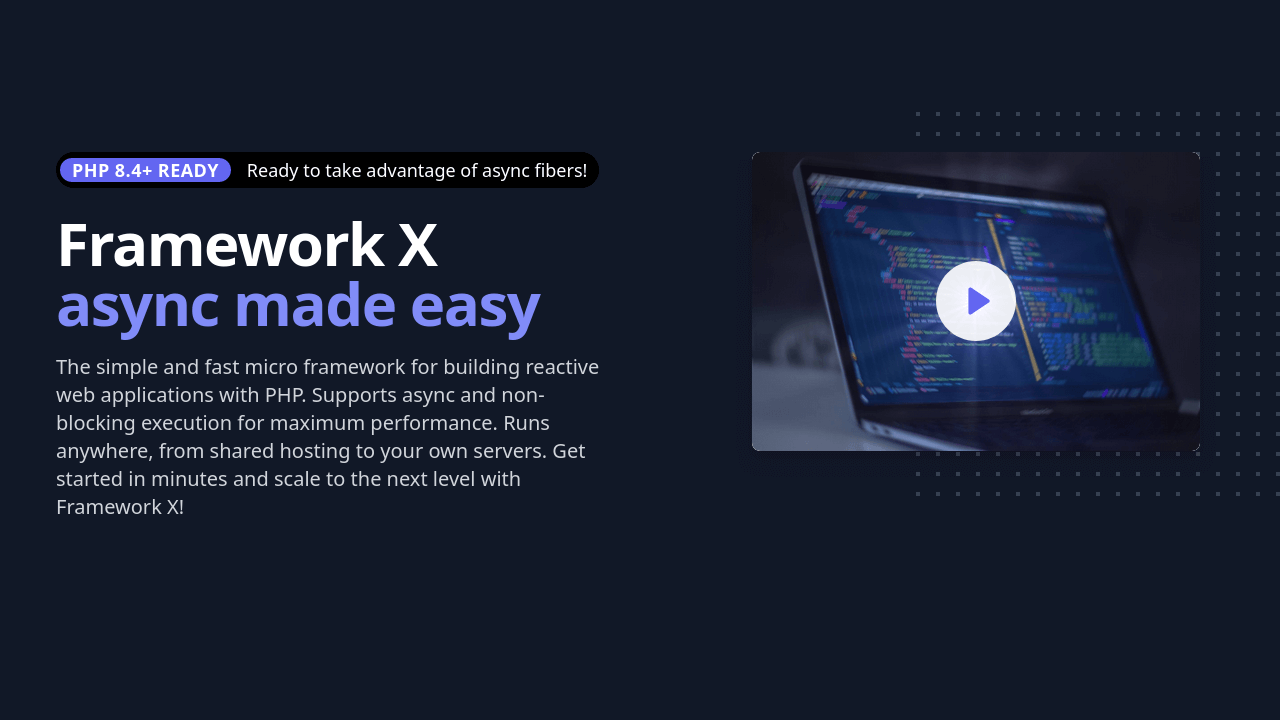
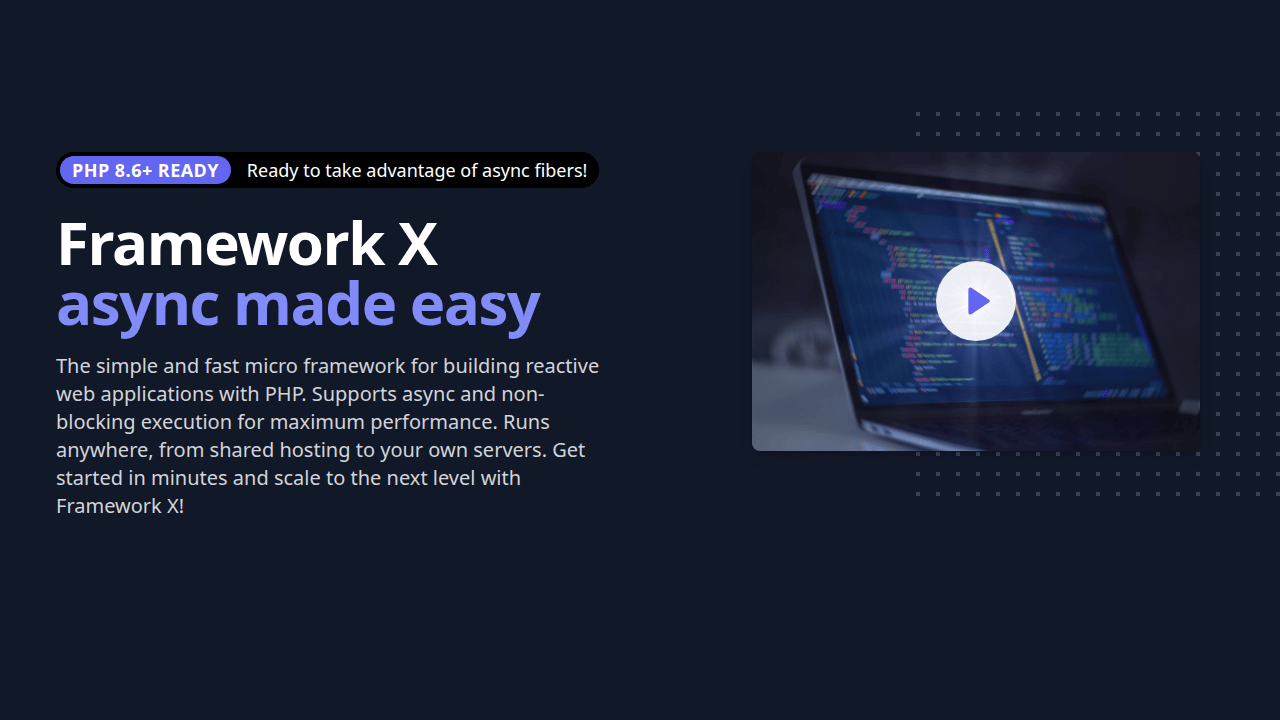
Update to mention PHP 8.6+ support

diff --git a/public/index.html b/public/index.html
@@ -72,7 +72,7 @@
           <div class="px-4 sm:px-6 sm:text-center md:max-w-2xl md:mx-auto lg:col-span-6 lg:text-left lg:flex lg:items-center">
             <div>
               <span class="inline-flex items-center text-white bg-black rounded-full p-1 pr-3 sm:text-base lg:text-sm xl:text-base">
-                <span class="px-3 py-0.5 text-white text-xs font-semibold leading-5 uppercase tracking-wide bg-indigo-500 rounded-full cursor-help" title="Framework X is ready for PHP 8.4+, but also supports PHP 7.1+ with no extensions required">PHP 8.4+ ready</span>
+                <span class="px-3 py-0.5 text-white text-xs font-semibold leading-5 uppercase tracking-wide bg-indigo-500 rounded-full cursor-help" title="Framework X is ready for PHP 8.6+, but also supports PHP 7.1+ with no extensions required">PHP 8.6+ ready</span>
                 <span class="ml-4 text-sm">Ready to take advantage of async fibers!</span>
               </span>
               <h1 class="mt-4 text-4xl tracking-tight font-extrabold text-white sm:mt-5 sm:leading-none lg:mt-6 lg:text-5xl xl:text-6xl">
@@ -631,7 +631,7 @@ Transfer rate:          2358.15 [Kbytes/sec] received
         <p class="mt-3 text-lg text-gray-500">
           Framework X is scalable from the ground up. 
           We provide a simple API that is easy to get started with for the smallest of projects, yet allow to grow to complex, production-ready setups.
-          We're ready for PHP 8.4+, but also support PHP 7.1+ with no extensions required!
+          We're ready for PHP 8.6+, but also support PHP 7.1+ with no extensions required!
         </p>
 
         <dl class="mt-10 space-y-10">
